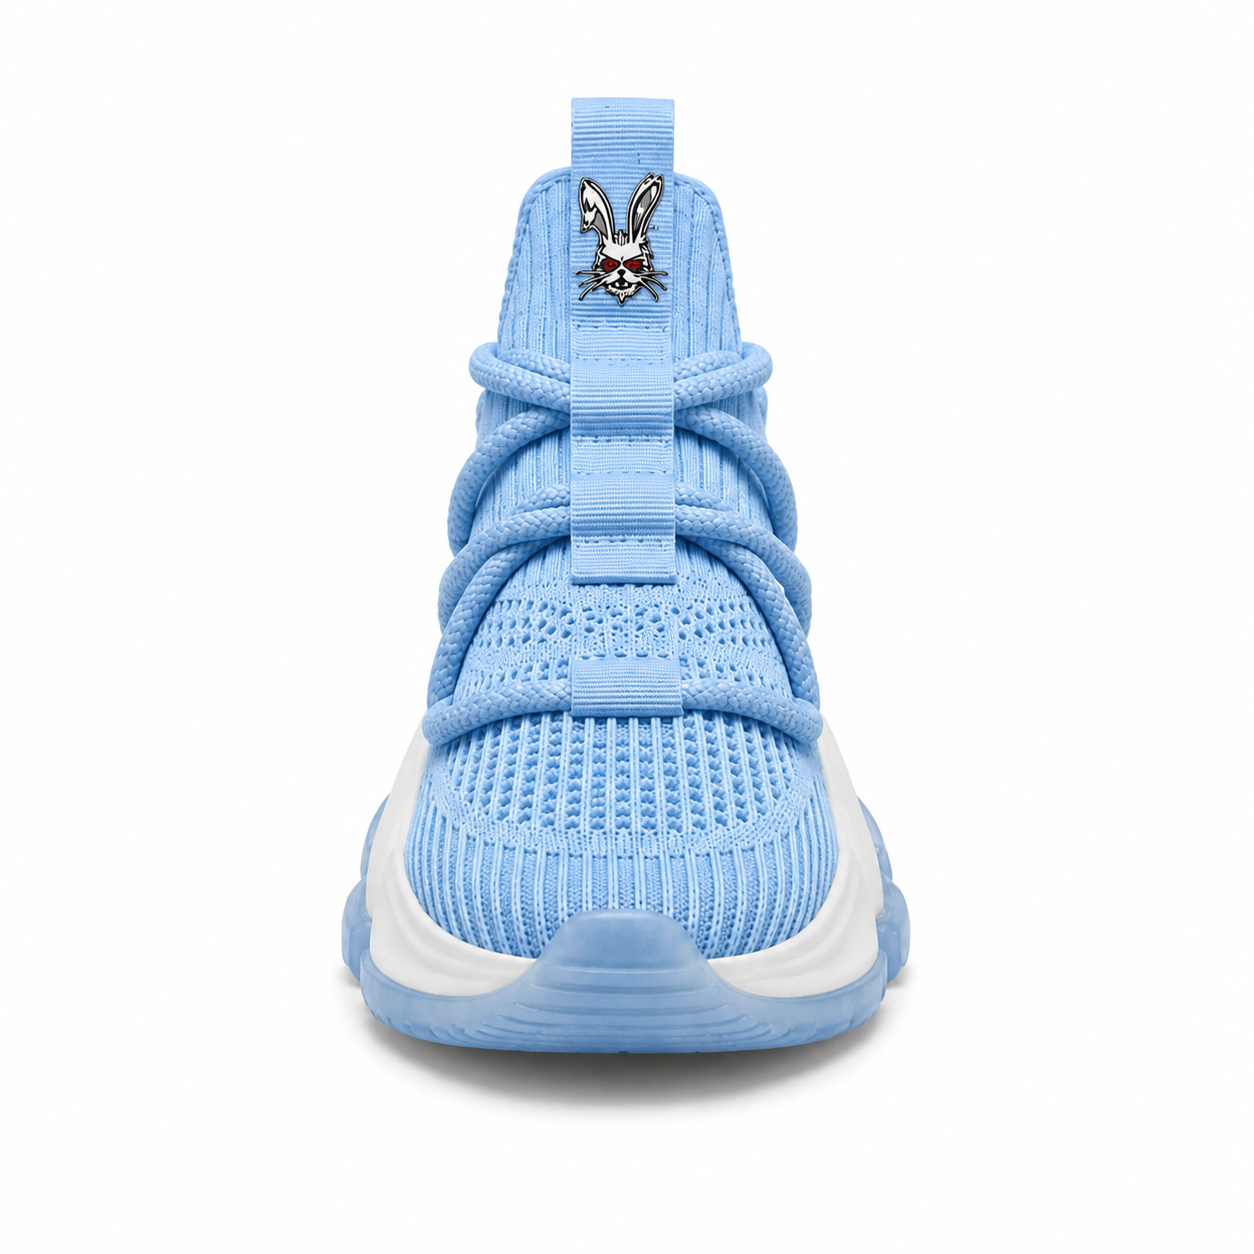
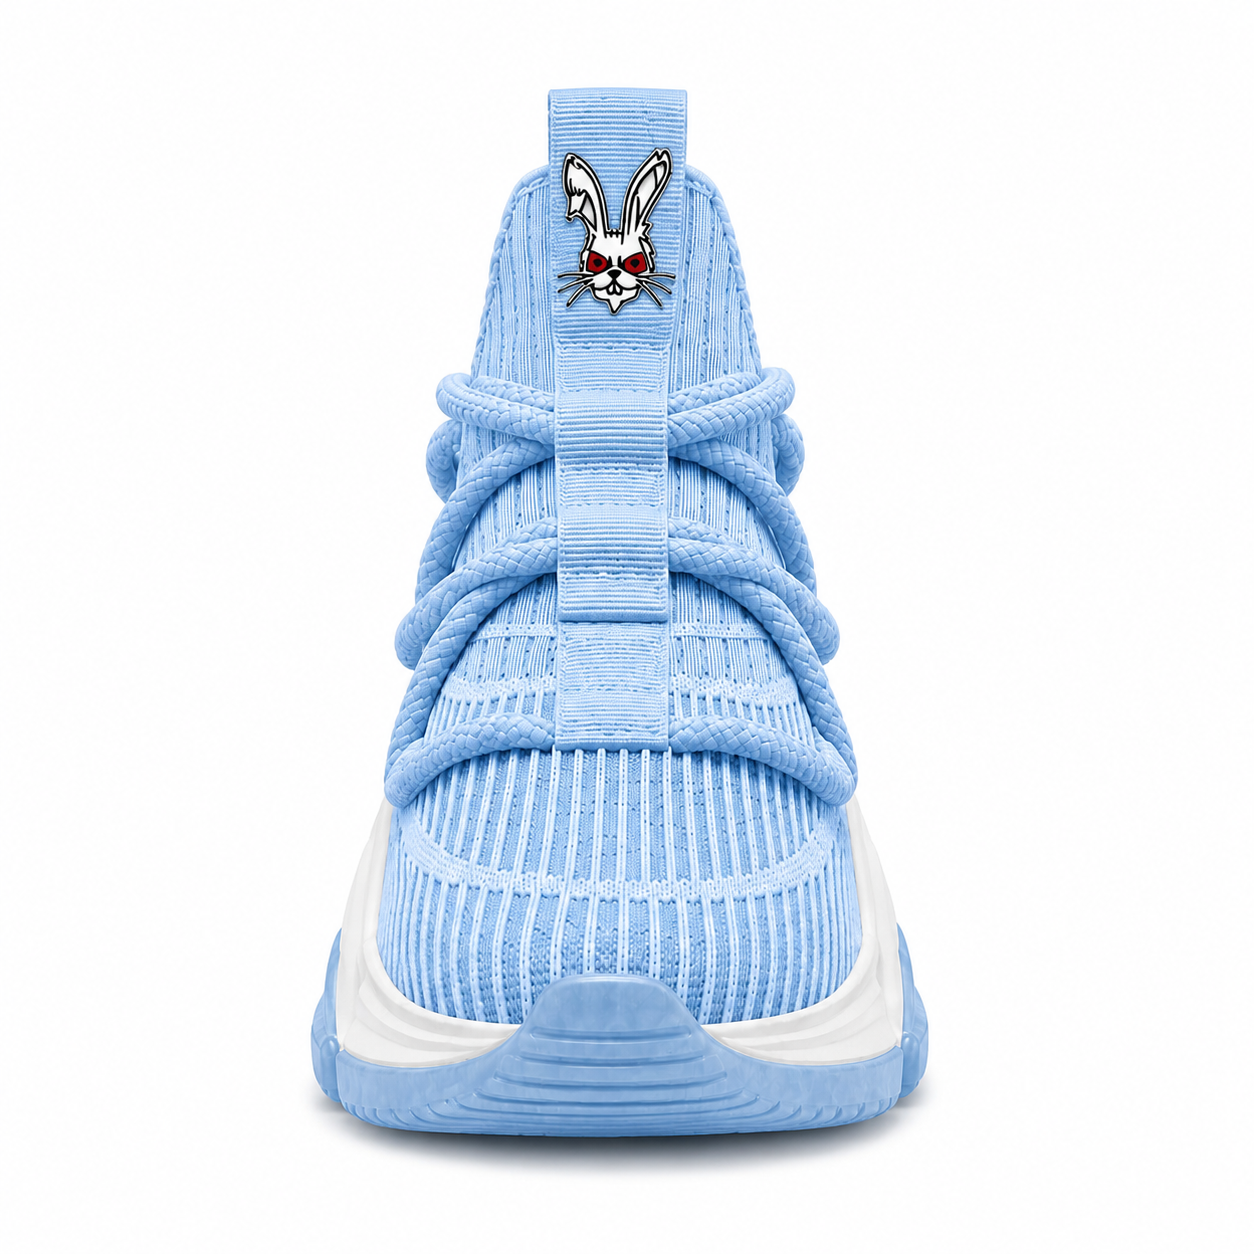
Update Ice (blue) colourway with new product images including side view

Changed region(s): [[0.2488, 0.0622, 0.7464, 0.933]]

diff --git a/src/components/product/PDPHero.tsx b/src/components/product/PDPHero.tsx
@@ -11,7 +11,7 @@ type View = typeof VIEWS[number]
 const VIEW_IMAGES: Record<string, Record<View, string>> = {
   obs: { FRONT: '/assets/shoe-black-front.png', SIDE: '/assets/shoe-black-side.png', BACK: '/assets/shoe-black-rear.png', TOP: '/assets/shoe-black-top.png' },
   car: { FRONT: '/assets/shoe-red-front.png', SIDE: '/assets/shoe-red-side.jpeg', BACK: '/assets/shoe-red-rear.png', TOP: '/assets/shoe-red-top.png' },
-  ice: { FRONT: '/assets/shoe-blue-front.png',  SIDE: '/assets/shoe-blue.jpg',  BACK: '/assets/shoe-blue-rear.png',  TOP: '/assets/shoe-blue-top.png'  },
+  ice: { FRONT: '/assets/shoe-blue-front.png', SIDE: '/assets/shoe-blue-side.png', BACK: '/assets/shoe-blue-rear.png', TOP: '/assets/shoe-blue-top.png' },
   ros: { FRONT: '/assets/shoe-pink-front.png', SIDE: '/assets/shoe-pink-side.png', BACK: '/assets/shoe-pink-rear.png', TOP: '/assets/shoe-pink-top.png' },
 }
 
